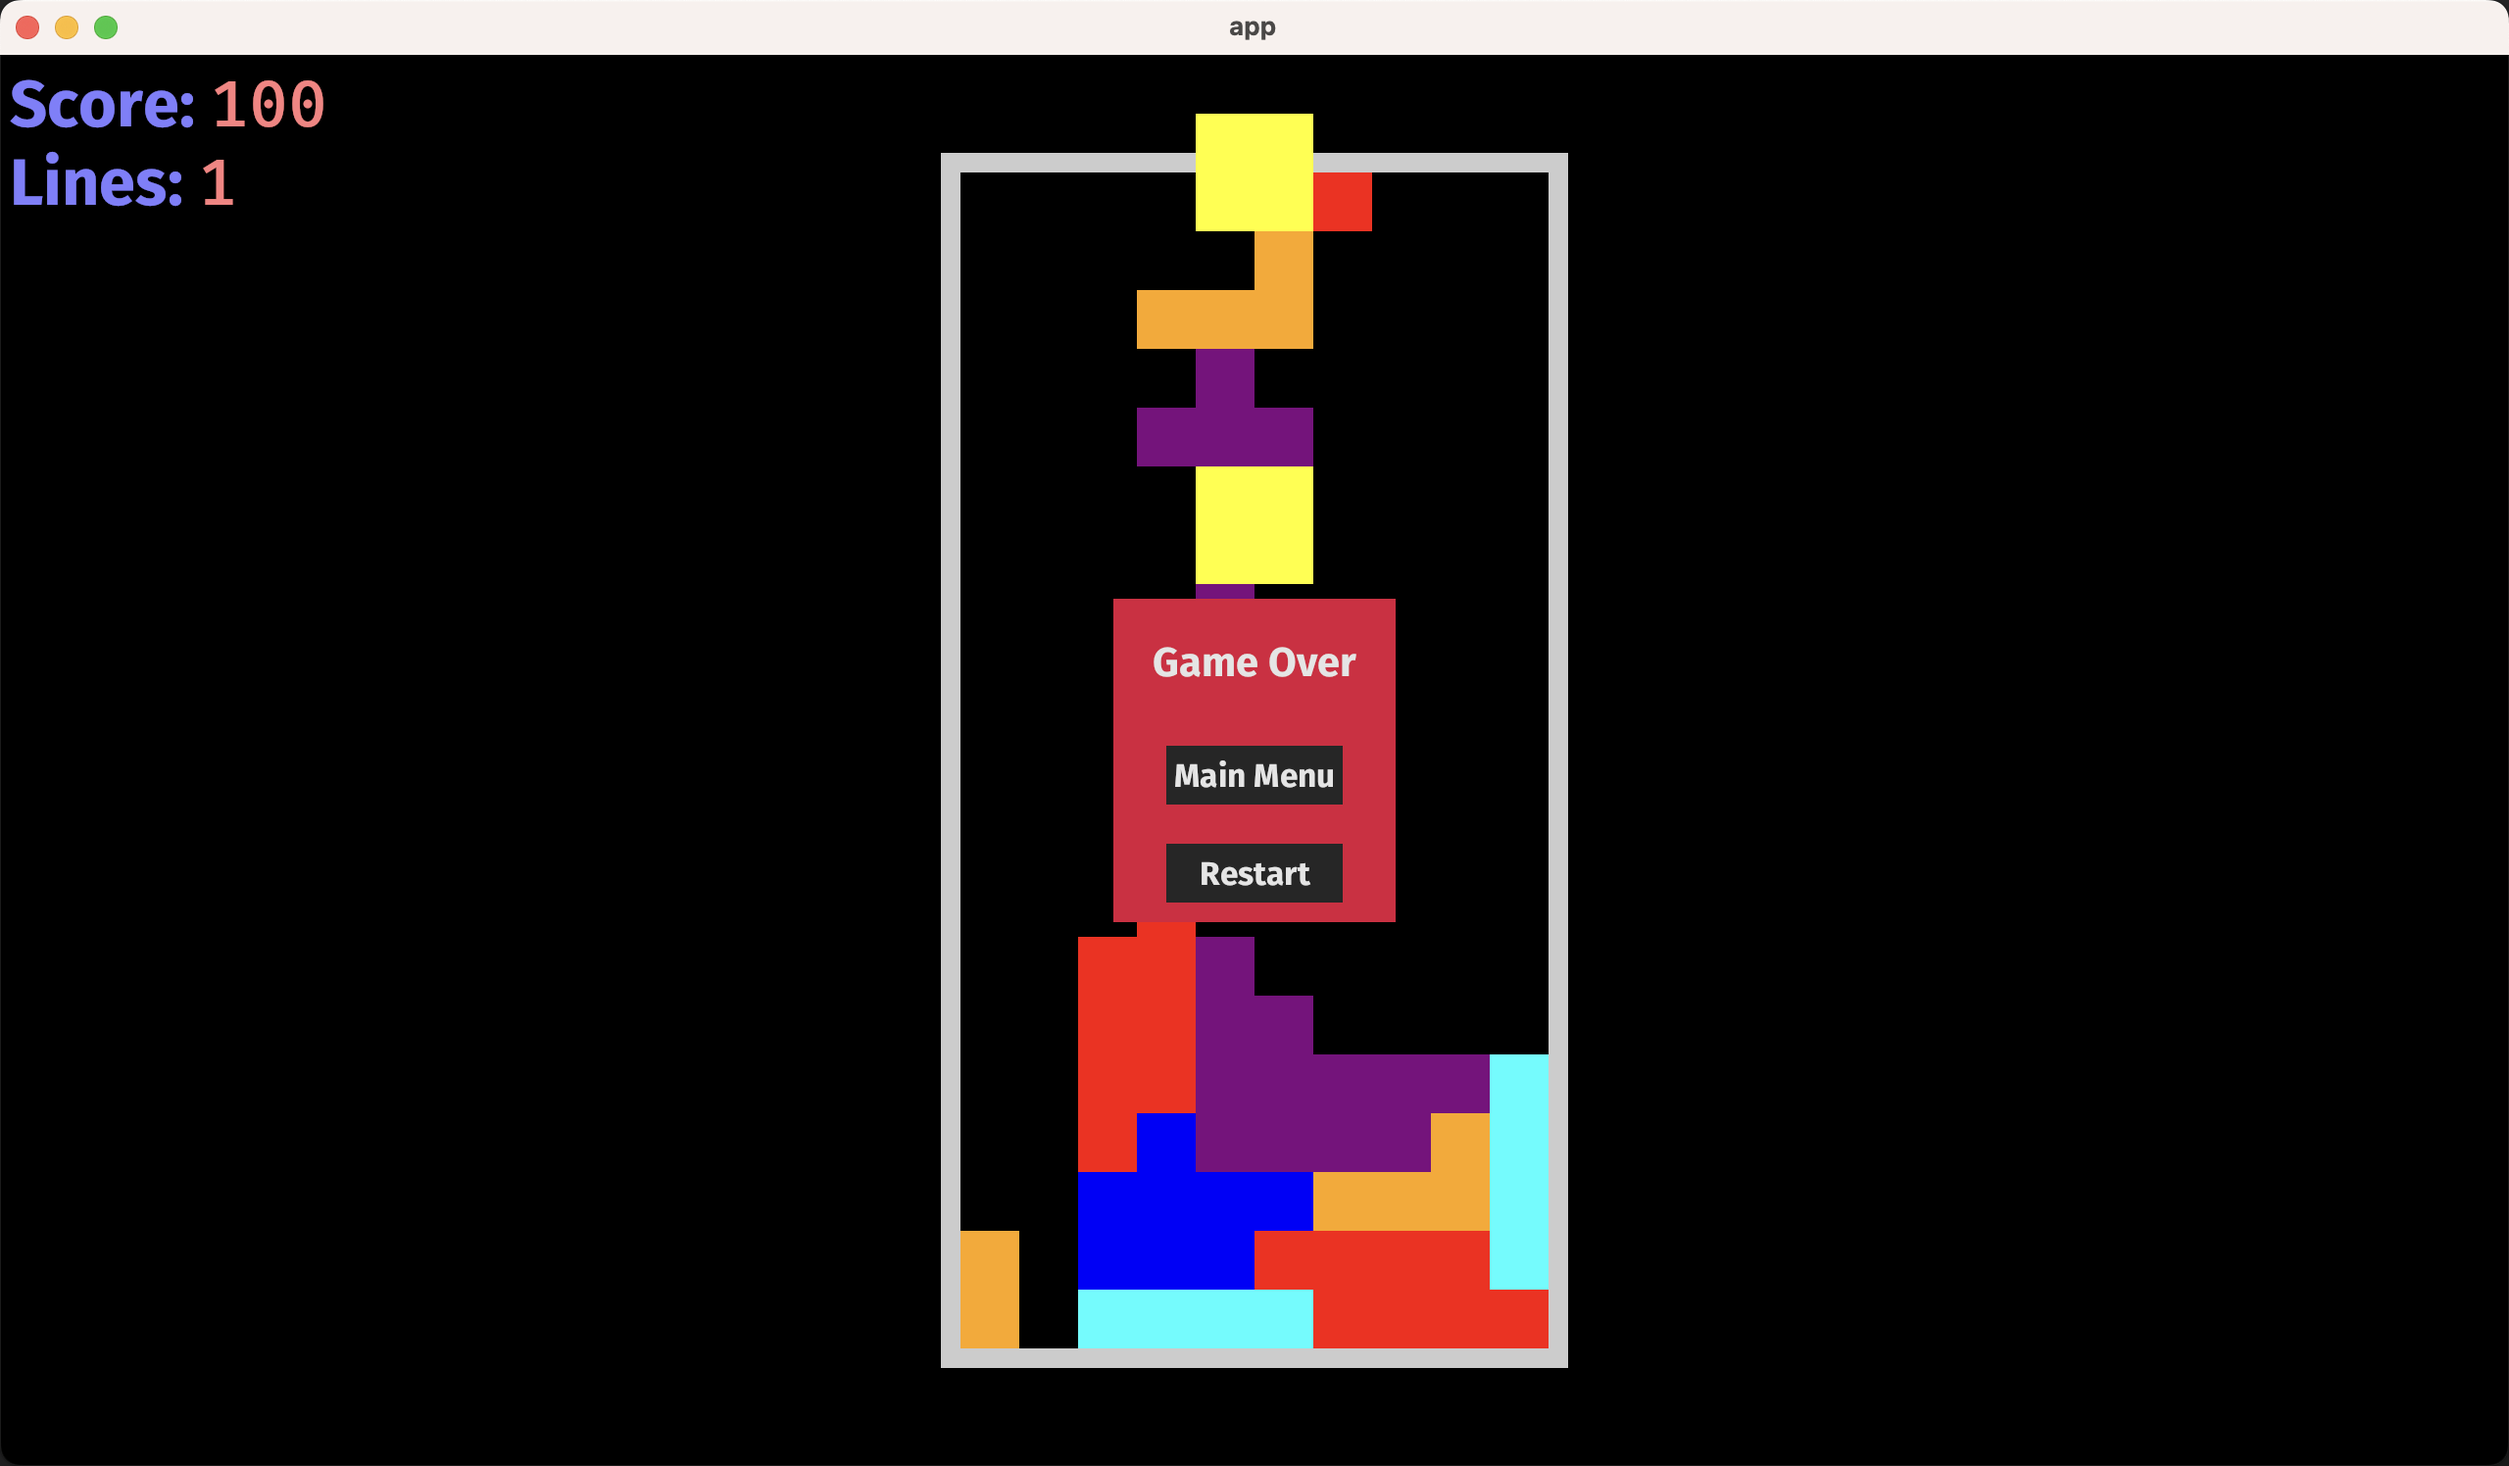
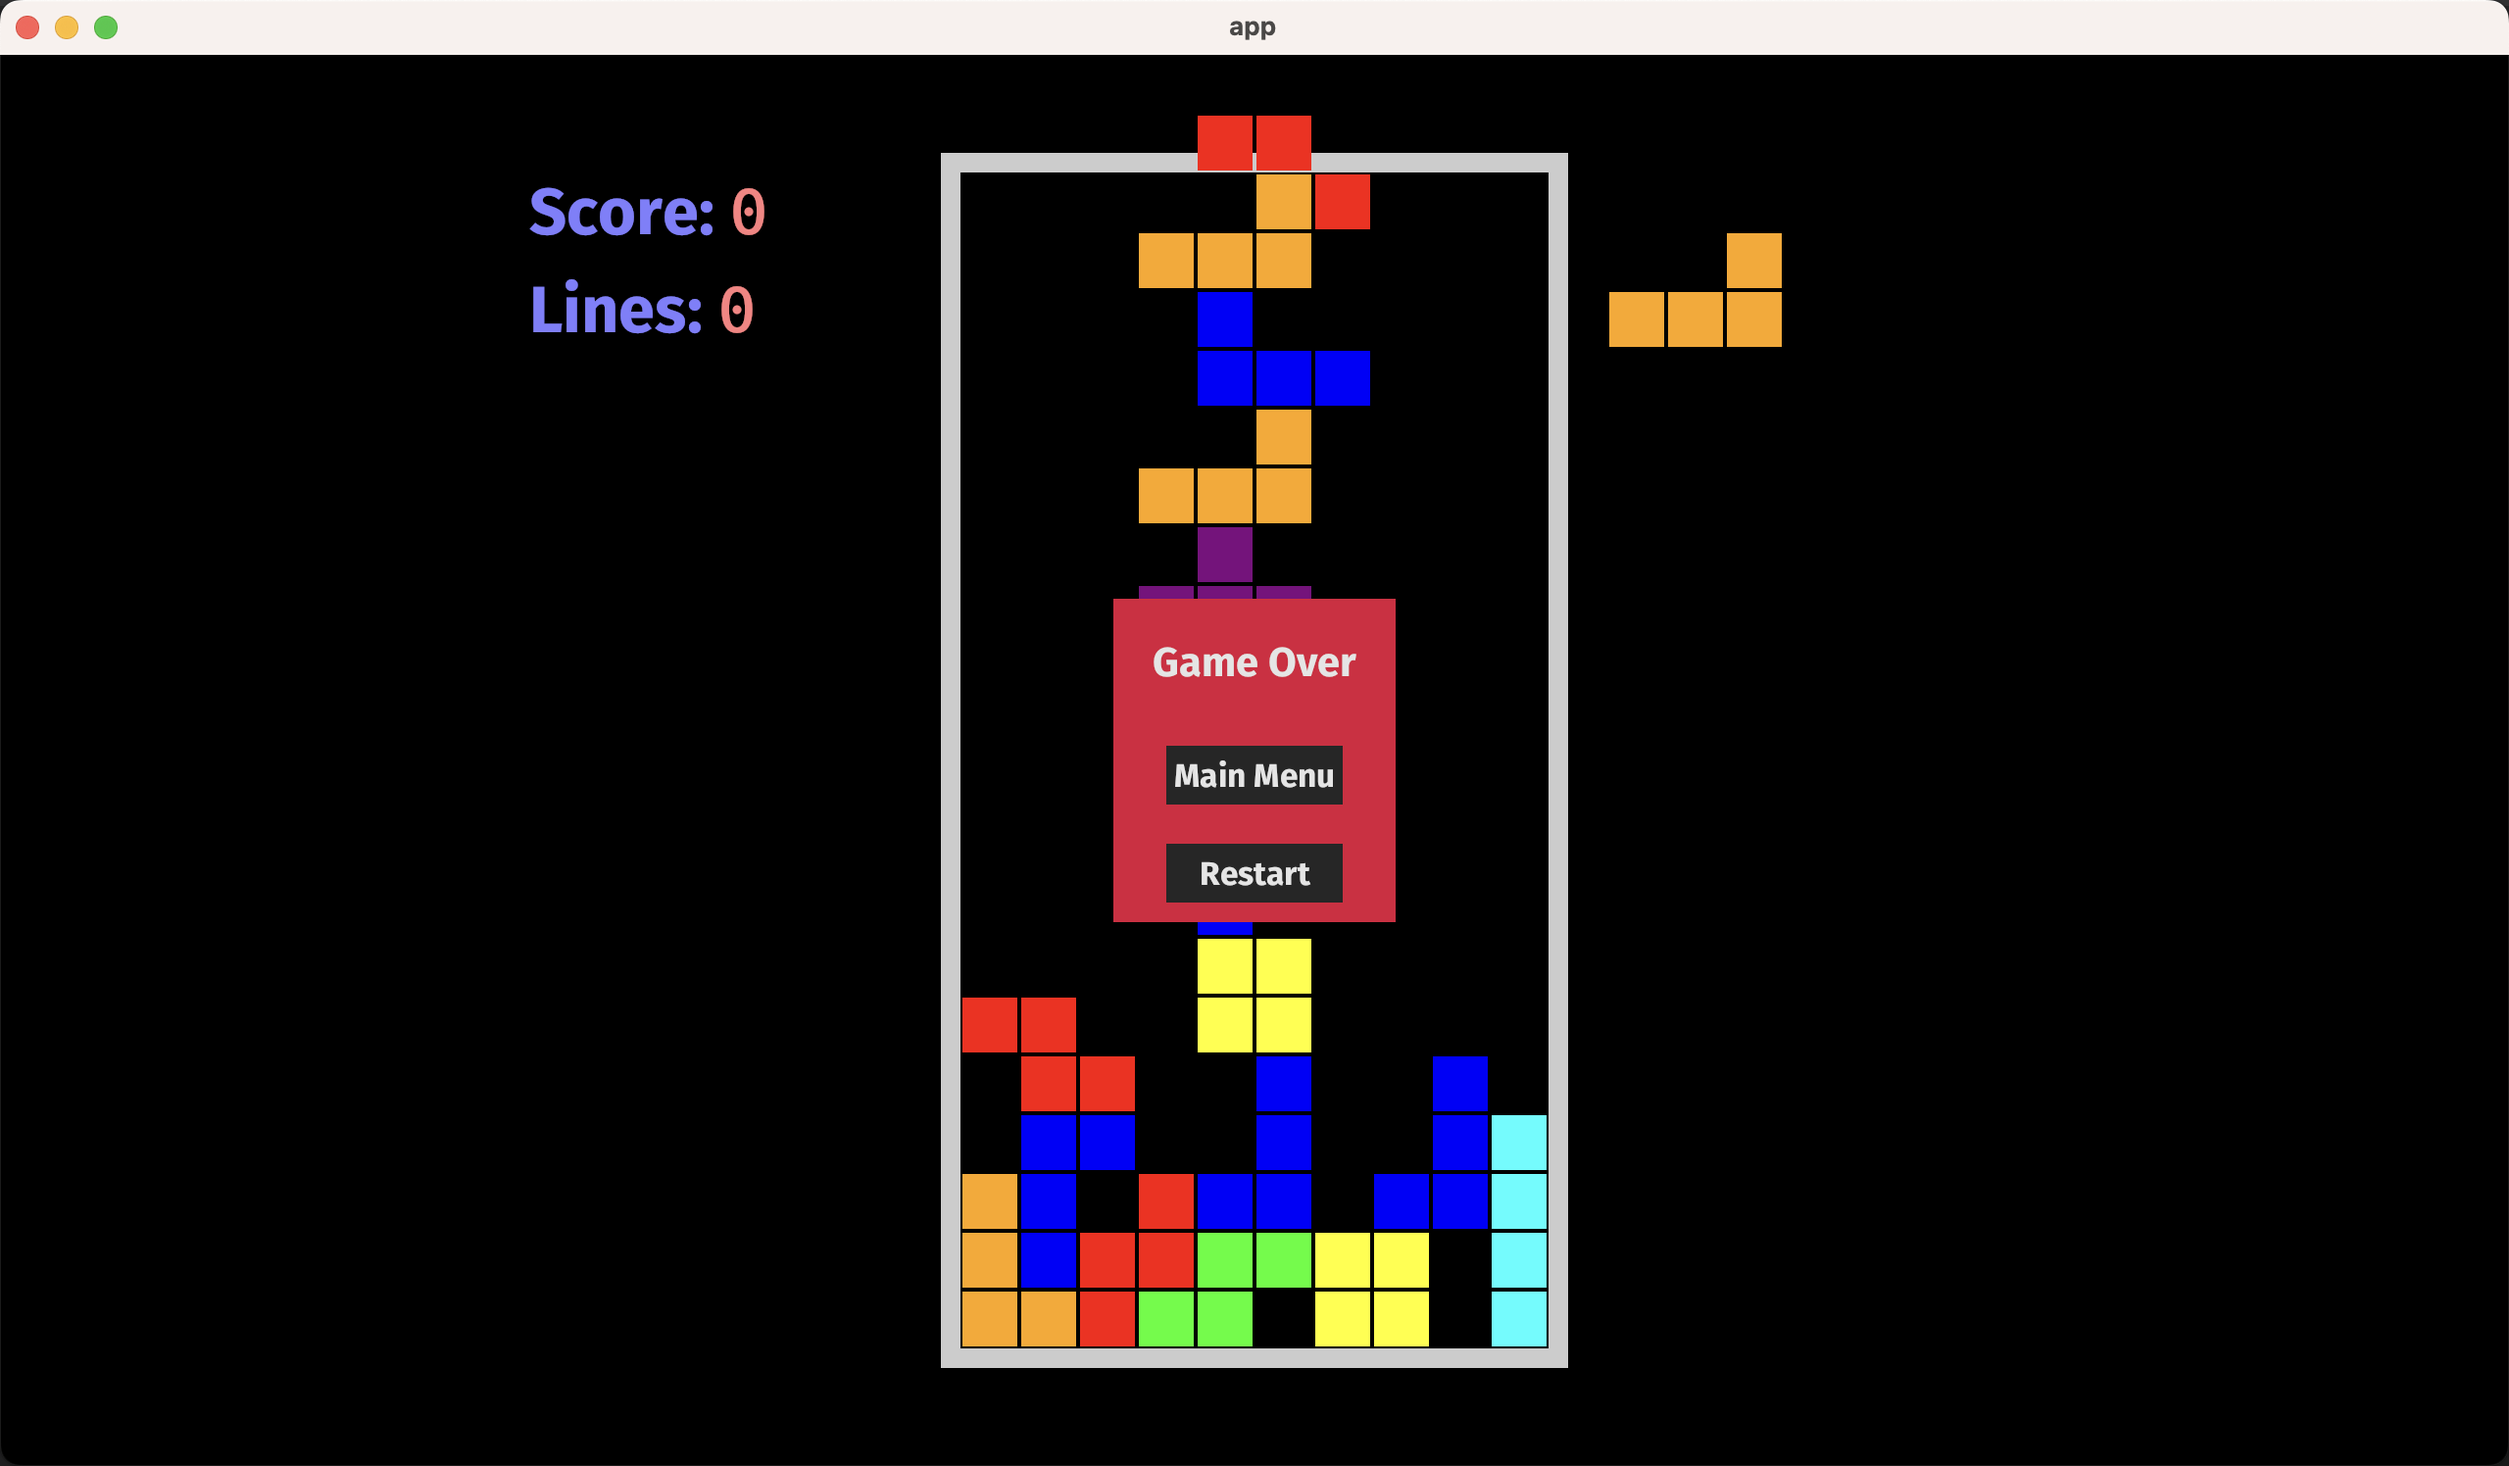
Update screenshot and README

diff --git a/src/stats.rs b/src/stats.rs
@@ -6,7 +6,7 @@ use crate::{
 };
 
 // 计分板长宽
-const STATS_BOARD_LENGTH: f32 = 250.0;
+const STATS_BOARD_LENGTH: f32 = 220.0;
 const STATS_BOARD_WIDTH: f32 = 50.0;
 
 // 分数
@@ -52,11 +52,14 @@ pub fn setup_stats_boards(
                         color: Color::rgb(0.5, 0.5, 1.0),
                     },
                 ),
-                TextSection::from_style(TextStyle {
-                    font: asset_server.load("fonts/FiraMono-Medium.ttf"),
-                    font_size: 40.0,
-                    color: Color::rgb(1.0, 0.5, 0.5),
-                }),
+                TextSection::new(
+                    "0",
+                    TextStyle {
+                        font: asset_server.load("fonts/FiraMono-Medium.ttf"),
+                        font_size: 40.0,
+                        color: Color::rgb(1.0, 0.5, 0.5),
+                    },
+                ),
             ])
             .with_style(Style {
                 position_type: PositionType::Absolute,
@@ -82,11 +85,14 @@ pub fn setup_stats_boards(
                         color: Color::rgb(0.5, 0.5, 1.0),
                     },
                 ),
-                TextSection::from_style(TextStyle {
-                    font: asset_server.load("fonts/FiraMono-Medium.ttf"),
-                    font_size: 40.0,
-                    color: Color::rgb(1.0, 0.5, 0.5),
-                }),
+                TextSection::new(
+                    "0",
+                    TextStyle {
+                        font: asset_server.load("fonts/FiraMono-Medium.ttf"),
+                        font_size: 40.0,
+                        color: Color::rgb(1.0, 0.5, 0.5),
+                    },
+                ),
             ])
             .with_style(Style {
                 position_type: PositionType::Absolute,
@@ -289,5 +295,11 @@ pub fn update_next_piece(
                     .insert(NextPiece);
             }
         }
+    }
+}
+
+pub fn clear_next_piece(mut commands: Commands, query: Query<Entity, With<NextPiece>>) {
+    for entity in &query {
+        commands.entity(entity).despawn();
     }
 }

diff --git a/src/main.rs b/src/main.rs
@@ -24,7 +24,7 @@ fn main() {
         .add_plugins(DefaultPlugins)
         .add_state(AppState::MainMenu)
         .add_state(GameState::GameQuitted)
-        .add_plugin(WorldInspectorPlugin::new())
+        // .add_plugin(WorldInspectorPlugin::new())
         .add_startup_system(setup_camera)
         .add_startup_system(setup_game_board)
         .add_startup_system(setup_stats_boards)
@@ -38,6 +38,7 @@ fn main() {
                 .with_system(clear_board)
                 .with_system(clear_score)
                 .with_system(clear_lines)
+                .with_system(clear_next_piece)
         )
         .add_system_set(SystemSet::on_update(AppState::MainMenu).with_system(click_button))
         .add_system_set(
@@ -52,6 +53,7 @@ fn main() {
                 .with_system(clear_board)
                 .with_system(clear_score)
                 .with_system(clear_lines)
+                .with_system(clear_next_piece)
         )
         // Game Playing
         .add_system_set(

diff --git a/src/piece.rs b/src/piece.rs
@@ -156,10 +156,6 @@ pub fn manually_move_piece(
                 block.y -= 1;
                 transform.translation = block.translation();
                 audio.play(game_audios.drop.clone());
-            // TODO remove
-            } else {
-                // 移除piece组件
-                commands.entity(entity).remove::<Piece>();
             }
         }
     }

diff --git a/README.md b/README.md
@@ -5,7 +5,7 @@
 - [x] 暂停、恢复和重新开始游戏
 - [x] 支持web
 - [x] 音效
-- [ ] 展示下一个出现的骨牌
+- [x] 展示下一个骨牌
 - [ ] 窗口大小自适应
 
 在线游玩：[点这里](https://nightswatchgames.github.io/games/tetris/)（电脑版Chrome/Firefox打开）
